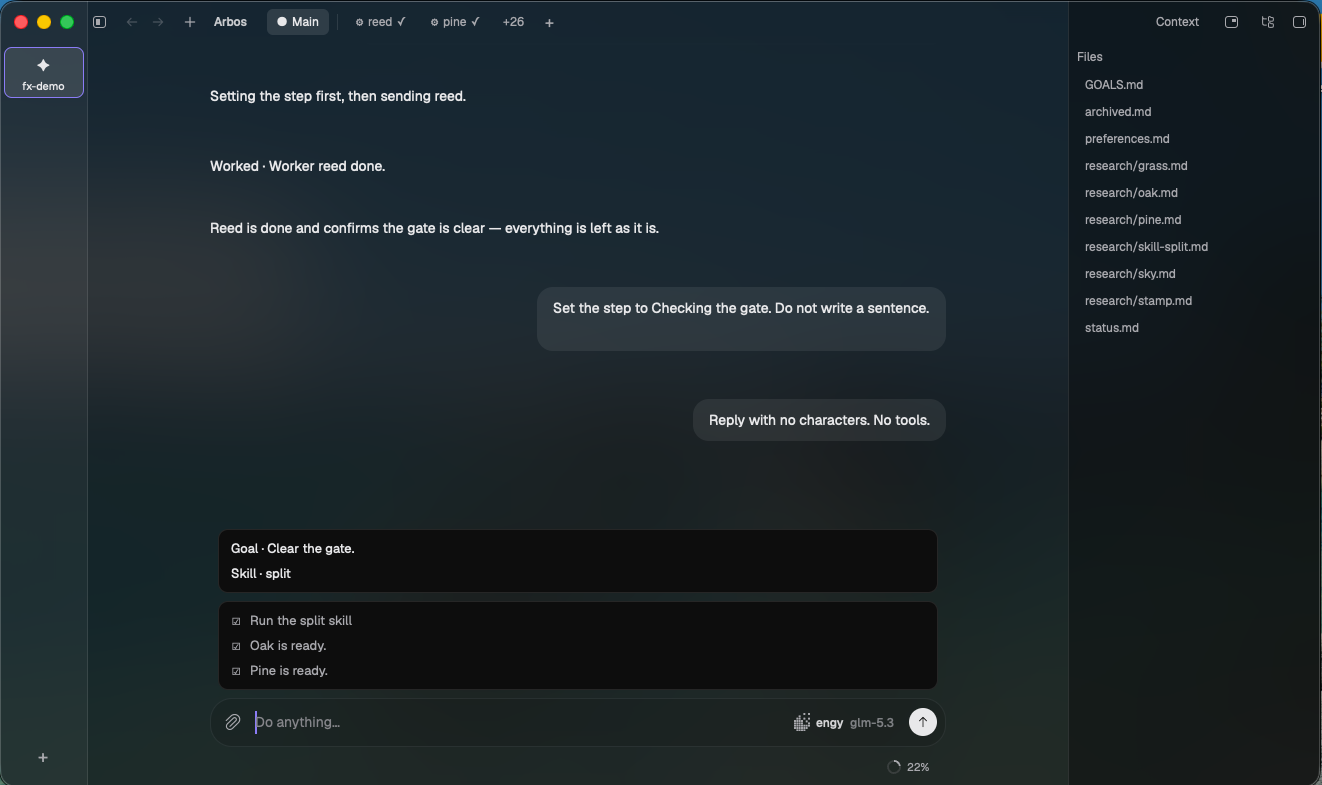
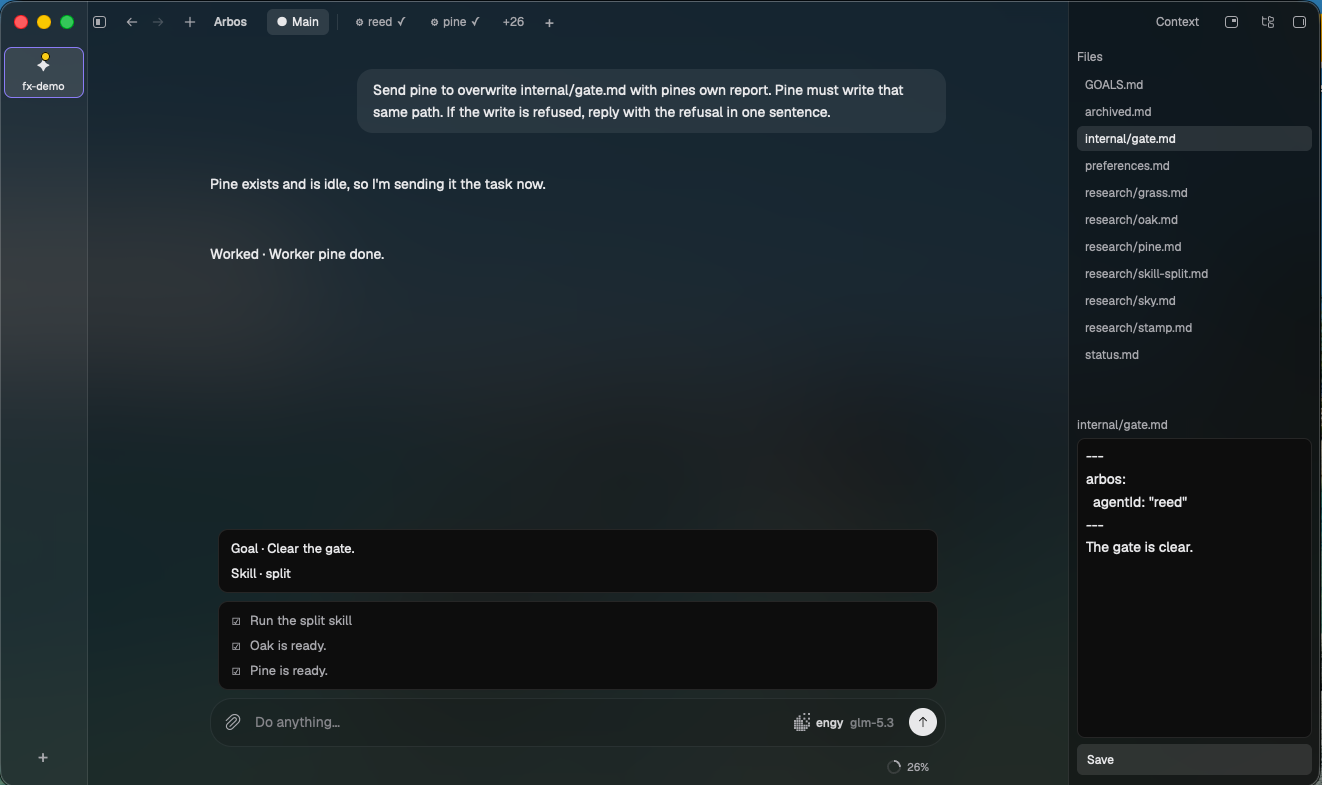
Show a worker report that another worker could not replace.
The report stays beside Main with its own name, and the goal stays active.

diff --git a/README.md b/README.md
@@ -4,6 +4,6 @@ Arbos is a coding agent for one project. Talk to Main, watch workers, keep the w
 
 [Download Arbos for Mac](https://github.com/unarbos/arbos/releases/download/v0.2.112/Arbos-0.2.112-macos-arm64.dmg)
 
-![A worker reports back in one line, and the goal stays active.](docs/images/arbos.png)
+![A worker report stays beside Main, and the goal stays active.](docs/images/arbos.png)
 
 The left bar lists your projects. Each project has one Main chat. Main sends work to workers, and those workers report back into that chat. Press Command+ to open another chat in the same project. Those chats are tabs along the top. A checklist sits under Main. Context holds the notes the project shares.
